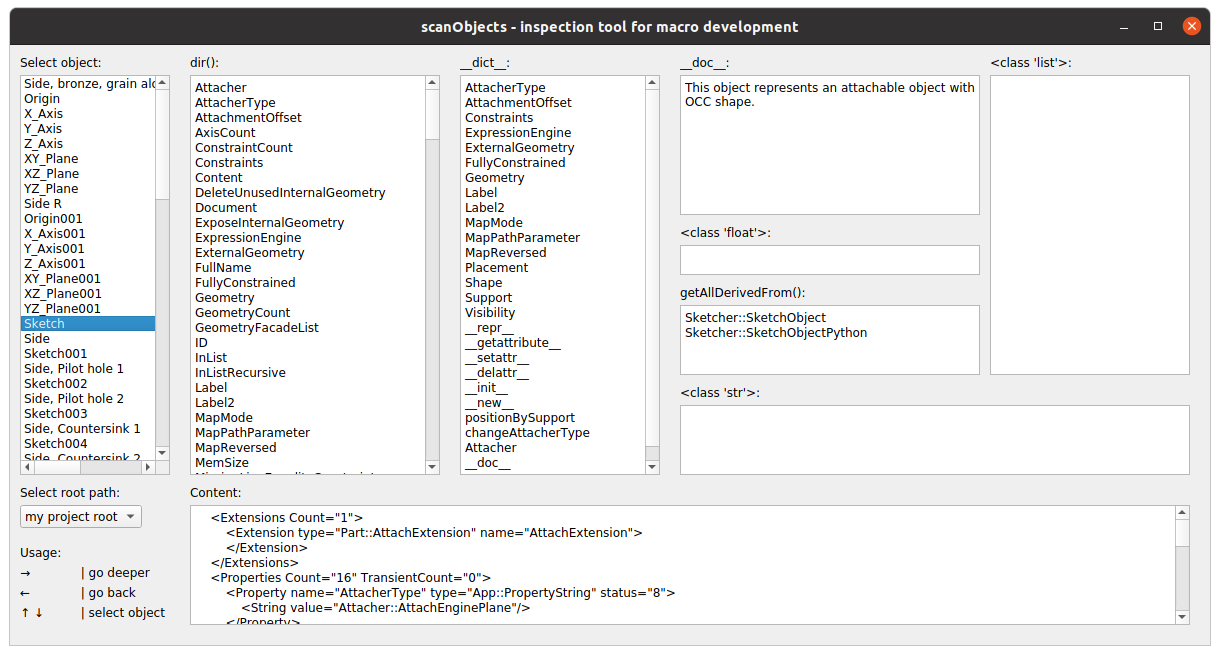
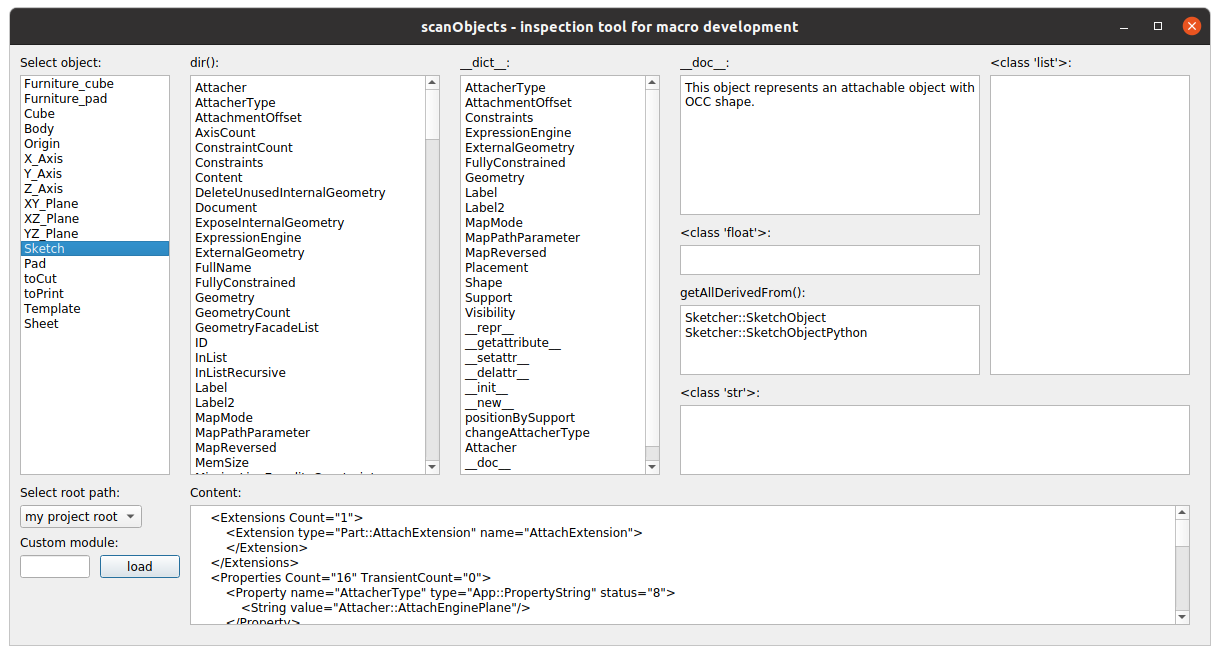
last selected & custom root

Changed region(s): [[0.0, 0.1221, 0.1557, 0.7328], [0.0, 0.8244, 0.1246, 0.9466]]

diff --git a/scanObjects.py b/scanObjects.py
@@ -2,10 +2,10 @@
 
 # Inspection tool for FreeCAD macro development.
 # Author: Darek L (aka dprojects)
-# Version: 2.0 ( looks stable )
+# Version: 2.1
 # Latest version: https://github.com/dprojects/scanObjects
 
-import FreeCAD, Draft, Spreadsheet
+import FreeCAD
 from PySide import QtGui, QtCore
 
 
@@ -27,6 +27,8 @@ def showQtGUI():
 		dbSL = [] # labels
 		dbSI = -1 # index
 		dbSP = [] # path
+		dbSLI = [] # last index
+		defaultRoot = ""
 
 		# ############################################################################
 		# init
@@ -37,6 +39,13 @@ def showQtGUI():
 			self.initUI()
 
 		def initUI(self):
+
+			# set default 
+			try:
+				test = FreeCAD.activeDocument().Objects
+				self.defaultRoot = "project"
+			except:
+				self.defaultRoot = "FreeCAD"
 
 			# window
 			self.result = userCancelled
@@ -66,33 +75,35 @@ def showQtGUI():
 			self.rootL.move(10, 440)
 			
 			# options
-			self.rootList = ("my project root","FreeCAD", "QtGui", "QtCore")
+			self.rootList = ("my project root","FreeCAD", "QtGui", "QtCore", "Path", "Draft")
 			self.rootO = QtGui.QComboBox(self)
 			self.rootO.addItems(self.rootList)
-			self.rootO.setCurrentIndex(self.rootList.index("my project root"))
+			if self.defaultRoot == "project":
+				self.rootO.setCurrentIndex(self.rootList.index("my project root"))
+			else:
+				self.rootO.setCurrentIndex(self.rootList.index("FreeCAD"))
 			self.rootO.activated[str].connect(self.setRootPath)
 			self.rootO.move(10, 460)
 
 			# ############################################################################
-			# info box
+			# custom module
 			# ############################################################################
 
 			# label
-			self.i0L = QtGui.QLabel("Usage:", self)
-			self.i0L.move(10, 500)
+			self.rootCL = QtGui.QLabel("Custom module:", self)
+			self.rootCL.move(10, 490)
 
-			# label
-			self.i1L = QtGui.QLabel("→ \t | go deeper", self)
-			self.i1L.move(10, 520)
-
-			# label
-			self.i2L = QtGui.QLabel("← \t | go back", self)
-			self.i2L.move(10, 540)
-
-			# label
-			self.i3L = QtGui.QLabel("↑ ↓ \t | select object", self)
-			self.i3L.move(10, 560)
+			# text input
+			self.rootCO = QtGui.QLineEdit(self)
+			self.rootCO.setText("")
+			self.rootCO.setFixedWidth(70)
+			self.rootCO.move(10, 510)
 			
+			# button
+			self.rootCLoad = QtGui.QPushButton("load", self)
+			self.rootCLoad.clicked.connect(self.loadCustomModule)
+			self.rootCLoad.move(90, 510)
+
 			# ############################################################################
 			# output 1
 			# ############################################################################
@@ -209,13 +220,30 @@ def showQtGUI():
 			# ############################################################################
 
 			# init default selection db
-			self.setRootPath("my project root")
+			if self.defaultRoot == "project":
+				self.setRootPath("my project root")
+			else:
+				self.setRootPath("FreeCAD")
 
 			self.show()
 		
 		# ############################################################################
 		# functions
 		# ############################################################################
+
+		def showError(self, iError):
+		
+			FreeCAD.Console.PrintMessage("\n ====================================================== \n")
+			
+			try:
+				FreeCAD.Console.PrintMessage("ERROR: ")
+				FreeCAD.Console.PrintMessage(" | ")
+				FreeCAD.Console.PrintMessage(str(iError))
+				
+			except:
+				FreeCAD.Console.PrintMessage("FATAL ERROR, or even worse :-)")
+				
+			FreeCAD.Console.PrintMessage("\n ====================================================== \n")
 
 		def clearDB(self):
 
@@ -224,38 +252,75 @@ def showQtGUI():
 			self.dbSL = [] # labels
 			self.dbSI = -1 # index
 			self.dbSP = [] # path
+			self.dbSLI = [] # last index
 
 		def setRootPath(self, selectedText):
 
 			# clear db before root set
 			self.clearDB()
 
-			from PySide import QtGui, QtCore
-
 			if selectedText == "my project root":
-
-				root = FreeCAD.activeDocument().Objects
-				rootS= "FreeCAD.activeDocument().Objects"
-				self.addSelection("", root, rootS)
+				
+				if self.defaultRoot == "FreeCAD":
+					self.showError("You have to set active document (project) to use this root path.")
+				else:
+					root = FreeCAD.activeDocument().Objects
+					rootS= "FreeCAD.activeDocument().Objects"
+					self.addSelection("", root, rootS, -1)
 				
 			if selectedText == "FreeCAD":
 
 				root = dir(FreeCAD)
 				rootS= "FreeCAD"
-				self.addSelection(FreeCAD, root, rootS)
+				self.addSelection(FreeCAD, root, rootS, -1)
 
 			if selectedText == "QtGui":
 
+				from PySide import QtGui
+
 				root = dir(QtGui)
 				rootS= "QtGui"
-				self.addSelection(QtGui, root, rootS)
+				self.addSelection(QtGui, root, rootS, -1)
 
 			if selectedText == "QtCore":
 
+				from PySide import QtCore
+
 				root = dir(QtCore)
 				rootS= "QtCore"
-				self.addSelection(QtCore, root, rootS)
+				self.addSelection(QtCore, root, rootS, -1)
 
+			if selectedText == "Path":
+
+				import Path
+
+				root = dir(Path)
+				rootS= "Path"
+				self.addSelection(Path, root, rootS, -1)
+
+			if selectedText == "Draft":
+
+				import Draft
+
+				root = dir(Draft)
+				rootS= "Draft"
+				self.addSelection(Draft, root, rootS, -1)
+
+		def loadCustomModule(self):
+
+			try:
+				rootS = str(self.rootCO.text())
+				module = __import__(rootS, globals(), locals(), [], 0)
+				root = dir(module)
+
+				# clear db before root set
+				self.clearDB()
+				
+				self.addSelection(module, root, rootS, -1)
+
+			except:
+				self.showError("Can't load module: "+rootS)
+				
 		def setOutput(self, iObj):
 
 			index = iObj.indexes()[0].row()
@@ -448,6 +513,14 @@ def showQtGUI():
 			info += "Your current selection path is:"
 			info += "\n\n"
 			info += path
+			info += "\n\n\n"
+			info += "Usage:"
+			info += "\n"
+			info += "→ \t | go deeper"
+			info += "\n"
+			info += "← \t | go back"
+			info += "\n"
+			info += "↑ ↓ \t | select object"
 			info += "\n\n"
 			info += "Use ↑ ↓ arrow keys to select object and start inspection at this path."
 
@@ -468,8 +541,8 @@ def showQtGUI():
 				item = QtGui.QStandardItem(str(o))
 				model.appendRow(item)
 				self.list.setModel(model)
-			
-			self.list.selectionModel().selectionChanged.connect(self.setOutput)			
+
+			self.list.selectionModel().selectionChanged.connect(self.setOutput)
 			self.resetOutputs()
 
 		def removeSelection(self):
@@ -479,12 +552,30 @@ def showQtGUI():
 
 				self.dbSO.pop()
 				self.dbSL.pop()
-				self.dbSI = self.dbSI - 1
 				self.dbSP.pop()
+				self.dbSI = self.dbSI - 1
 
 				self.updateSelection()
 
-		def addSelection(self, iObj, iList, iPath):
+			# set last visited
+			try:
+				item = self.dbSLI[self.dbSI]
+				flag = QtCore.QItemSelectionModel.Select
+				self.list.selectionModel().setCurrentIndex(item, flag)
+				flag = QtGui.QAbstractItemView.EnsureVisible.PositionAtCenter
+				self.list.scrollTo(item, flag)
+
+			except:
+				FreeCAD.Console.PrintMessage("\n Except")
+				skip = 1
+
+			# remove last selected
+			if self.dbSI > 0:
+				self.dbSLI.pop()
+
+			self.resetOutputs()
+
+		def addSelection(self, iObj, iList, iPath, iSelected):
 
 			tmpO = []
 			tmpL = []
@@ -517,8 +608,13 @@ def showQtGUI():
 				# update db
 				self.dbSO.append(tmpO)
 				self.dbSL.append(tmpL)
-				self.dbSI = self.dbSI + 1
 				self.dbSP.append(iPath)
+
+				# not select at init
+				if iSelected != -1:
+					self.dbSLI.insert(self.dbSI, iSelected)
+
+				self.dbSI = self.dbSI + 1
 
 				# update selection list
 				self.updateSelection()
@@ -533,7 +629,8 @@ def showQtGUI():
 		def keyRight(self):
 
 			try:
-				index = self.list.currentIndex().row()
+				selected = self.list.currentIndex()
+				index = selected.row()
 				Obj = self.dbSO[self.dbSI][index]
 				path = str(self.dbSL[self.dbSI][index])
 				
@@ -543,10 +640,10 @@ def showQtGUI():
 					skip = 1
 				elif isinstance(Obj, list):
 					newList = Obj
-					self.addSelection(Obj, newList, path)
+					self.addSelection(Obj, newList, path, selected)
 				else:
 					newList = dir(Obj)
-					self.addSelection(Obj, newList, path)
+					self.addSelection(Obj, newList, path, selected)
 			except:
 				skip = 1
 	

diff --git a/README.md b/README.md
@@ -8,10 +8,6 @@ This is inspection tool for FreeCAD macro development.
 
 ![003](https://raw.githubusercontent.com/dprojects/scanObjects/master/Screenshots/003.png)
 
-![004](https://raw.githubusercontent.com/dprojects/scanObjects/master/Screenshots/004.png)
-
-![005](https://raw.githubusercontent.com/dprojects/scanObjects/master/Screenshots/005.png)
-
 # Contact
 
 Please add all comments and questions to the dedicated
